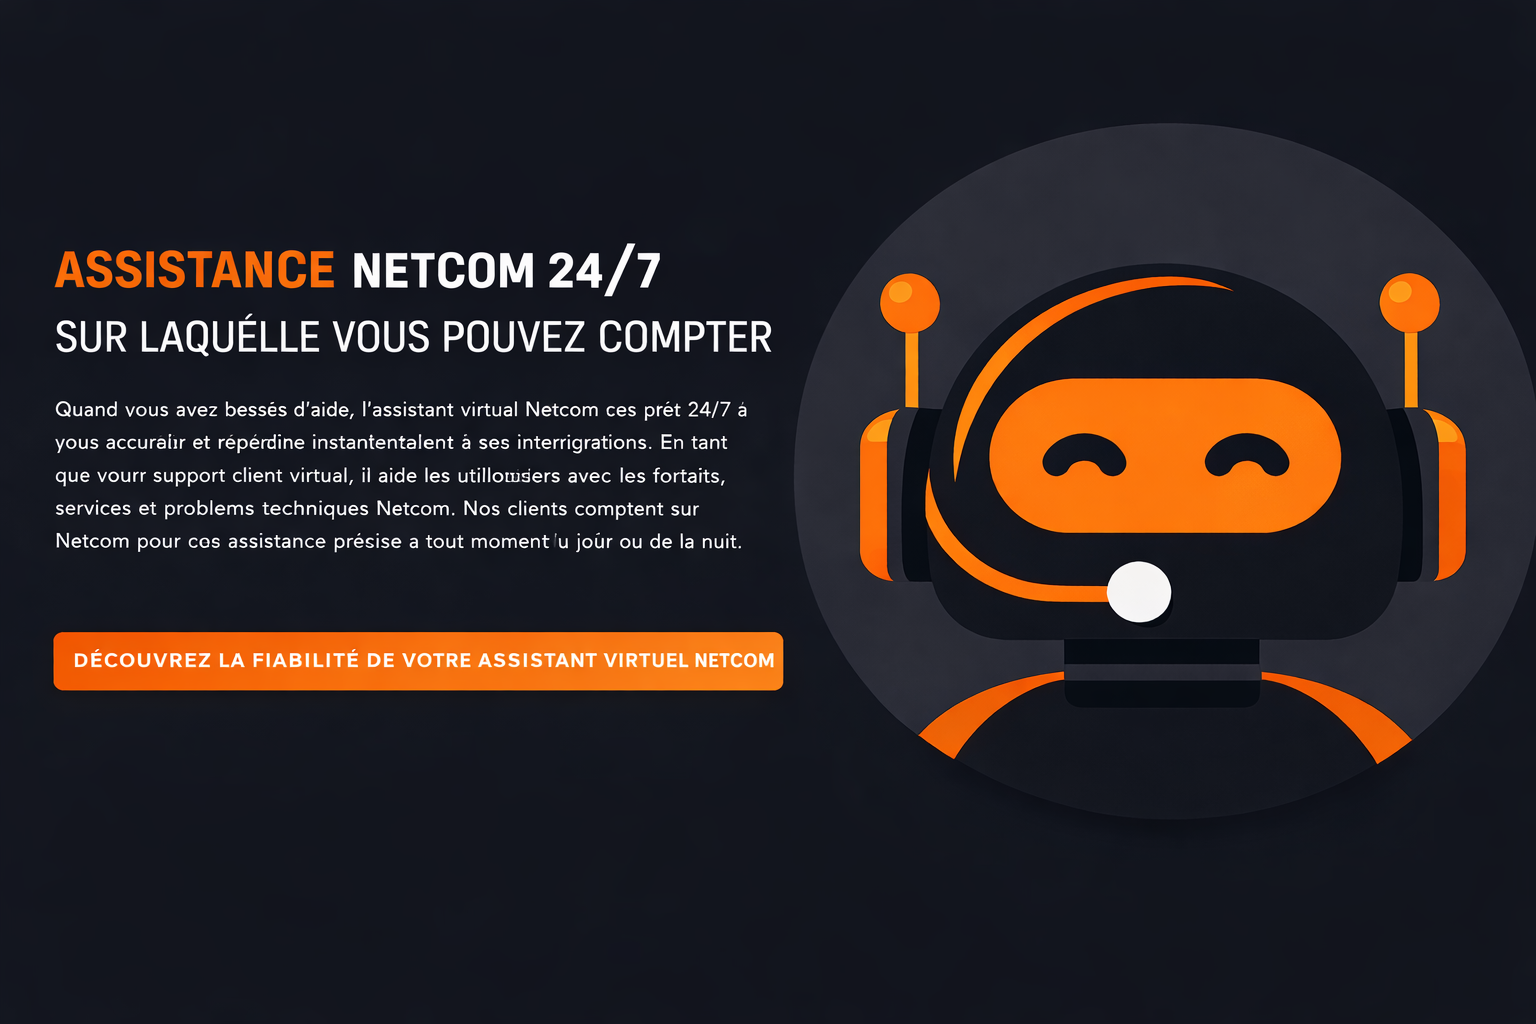
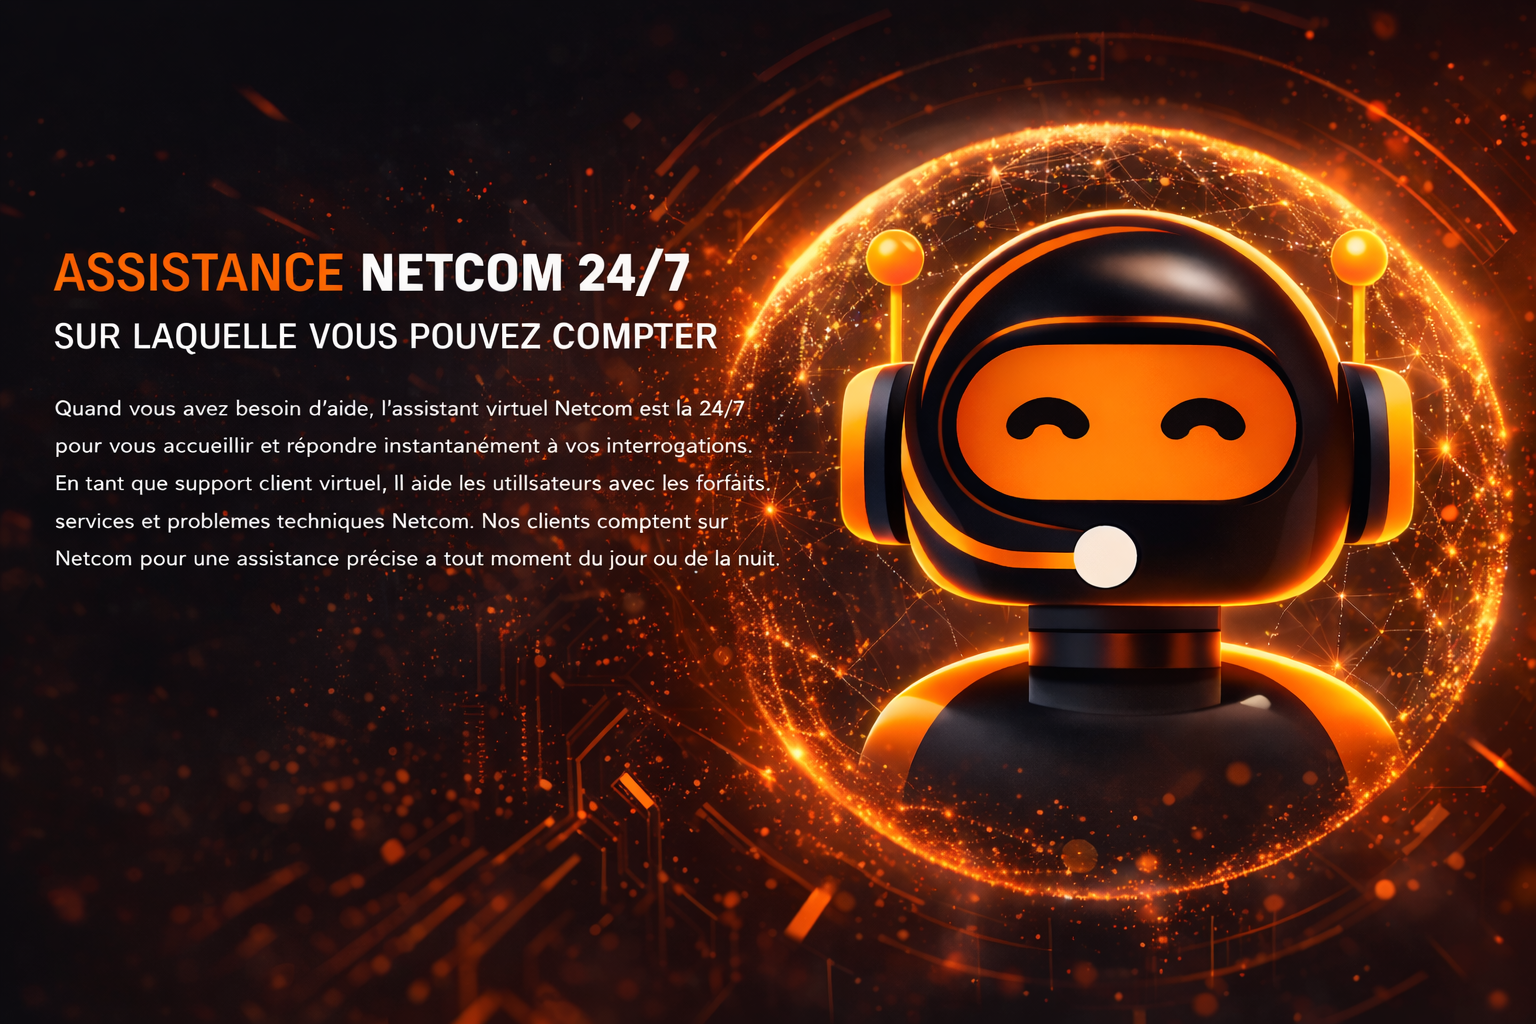
fond d ecran

diff --git a/app/welcome/welcome.tsx b/app/welcome/welcome.tsx
@@ -27,29 +27,9 @@ export function Welcome() {
 }
 
 const resources = [
-    {
-    href: "https://mikrotik.com/support",
-    text: "Demnade d'assistance sur Mikrotik",
-    icon: (
-      <svg
-        xmlns="http://www.w3.org/2000/svg"
-        width="24"
-        height="20"
-        viewBox="0 0 20 20"
-        fill="none"
-        className="stroke-blue-200 transition group-hover:stroke-white"
-      >
-        <path
-          d="M9.99981 10.0751V9.99992M17.4688 17.4688C15.889 19.0485 11.2645 16.9853 7.13958 12.8604C3.01467 8.73546 0.951405 4.11091 2.53116 2.53116C4.11091 0.951405 8.73546 3.01467 12.8604 7.13958C16.9853 11.2645 19.0485 15.889 17.4688 17.4688ZM2.53132 17.4688C0.951566 15.8891 3.01483 11.2645 7.13974 7.13963C11.2647 3.01471 15.8892 0.951453 17.469 2.53121C19.0487 4.11096 16.9854 8.73551 12.8605 12.8604C8.73562 16.9853 4.11107 19.0486 2.53132 17.4688Z"
-          strokeWidth="1.5"
-          strokeLinecap="round"
-        />
-      </svg>
-    ),
-  },
   {
-    href: "https://www.enreach.com/fr/contactez-nous/support-client",
-    text: "Demande de routage sur Enreach",
+    href: "https://reactrouter.com/docs",
+    text: "React Router Docs",
     icon: (
       <svg
         xmlns="http://www.w3.org/2000/svg"
@@ -67,10 +47,9 @@ const resources = [
       </svg>
     ),
   },
- 
   {
     href: "https://rmx.as/discord",
-    text: "Demande de routage sur Webex",
+    text: "Join My application",
     icon: (
       <svg
         xmlns="http://www.w3.org/2000/svg"

diff --git a/app/app.css b/app/app.css
@@ -15,14 +15,11 @@ body {
 }
 
 .welcome-page-background {
-  background-image:
-    linear-gradient(to bottom right, rgb(2 6 23 / 88%), rgb(2 6 23 / 72%)),
-    url("/welcome-background.png");
+  background-image: url("/welcome-background.png");
   background-position: center;
   background-repeat: no-repeat;
   background-size: cover;
 }
-
 
 .welcome-actions-panel {
   border: 1px solid rgb(255 255 255 / 0.35);
